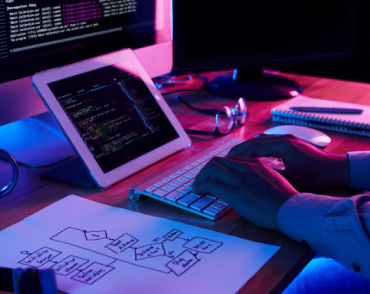
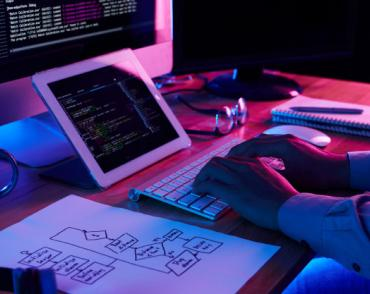
Оптимизировал изображени

diff --git a/index.html b/index.html
@@ -63,37 +63,42 @@
             <h2>Наша команда</h2>
             <ul>
                 <li>
-                    <img src="./images/img(1).jpg" alt="Игорь Демьяненко" width="270" height="260">
+                    <img src="./images/employee-img1" alt="Игорь Демьяненко" width="270" height="260">
                     <h3>Игорь Демьяненко</h3>
                     <p>Product Designer</p>
                 </li>
                 <li>
-                    <img src="./images/img(2).jpg" alt="Ольга Репина" width="270" height="260">
+                    <img src="./images/employee-img2.jpg" alt="Ольга Репина" width="270" height="260">
                     <h3>Ольга Репина</h3>
                     <p>Frontend Developer</p>
                 </li>
                 <li>
-                    <img src="./images/img(3).jpg" alt="Николай Тарасов" width="270" height="260">
+                    <img src="./images/employee-img3.jpg" alt="Николай Тарасов" width="270" height="260">
                     <h3>Николай Тарасов</h3>
                     <p>Marketing</p>
                 </li>
                 <li>
-                    <img src="./images/img(4).jpg" alt="Михаил Ермаков" width="270" height="260">
+                    <img src="./images/employee-img4.jpg" alt="Михаил Ермаков" width="270" height="260">
                     <h3>Михаил Ермаков</h3>
                     <p>UI Designer</p>
                 </li>
             </ul>
-           
         </section>
     </main>
     <footer>
         <a href="./index.html">WebStudio</a>
         <address>
             <p>
-                г. Киев, пр-т Леси Украинки, 26 <br>
-                info@example.com <br>
-                +38 099 111 11 11
+                г. Киев, пр-т Леси Украинки, 26
             </p>
+            <ul>
+                <li>
+                    <a href="mailto:info@example.com">info@example.com</a>
+                </li>
+                <li>
+                    <a href="tel:+380991111111">+38 099 111 11 11</a>
+                </li>
+            </ul>
         </address>
     </footer>
 
